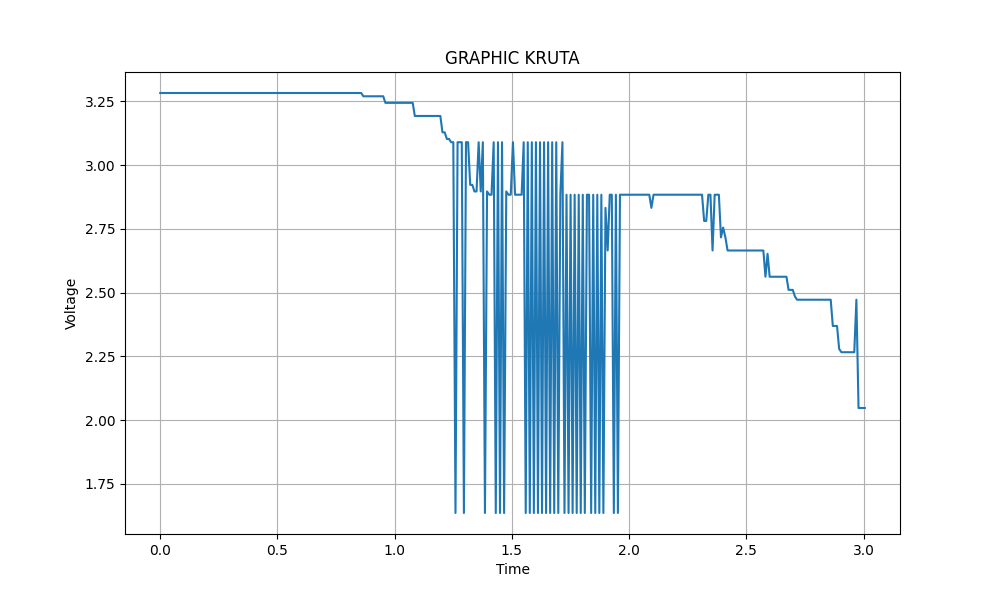
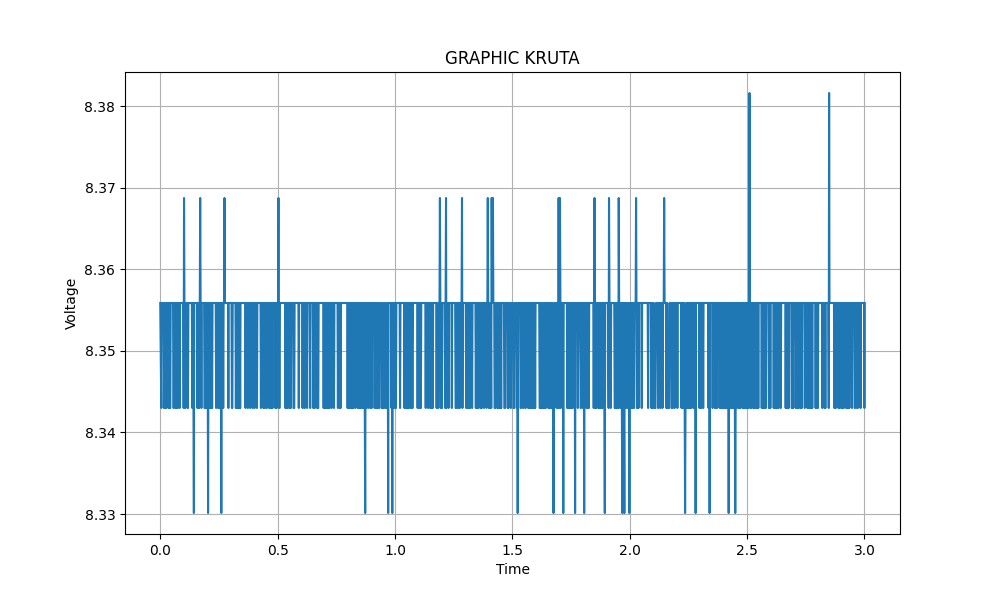
mcp

diff --git a/get-adc/mcp3021_driver.py b/get-adc/mcp3021_driver.py
@@ -1,0 +1,49 @@
+import RPi.GPIO as GEGE
+import smbus
+
+
+class MCP3021:
+    def __init__(self, dynamic_range, verbose = False):
+        self.bus           = smbus.SMBus(1)
+        self.dynamic_range = dynamic_range
+        self.address       = 0x4D
+        self.verbose       = verbose
+        return
+
+    def __dtor__(self):
+        self.bus.close()
+        return
+
+    def get_number(self):
+        data            = self.bus.read_word_data(self.address, 0)
+        lower_data_byte = data >> 8
+        upper_data_byte = data & 0xFF
+        number          = (upper_data_byte << 6) | (lower_data_byte >> 2)
+
+        if self.verbose:
+            print(f"Принятые данные: {data}, Старший байт: {upper_data_byte:x}, Младший байт: {lower_data_byte}, Число: {number}")
+
+        return number
+
+    def get_voltage(self):
+        number  = self.get_number()
+        voltage = number / 256 * self.dynamic_range
+        return voltage 
+
+
+if __name__ == "__main__":
+    try:
+        mcp = MCP3021(3.296)
+        
+        while True:
+            voltage = mcp.get_voltage()
+            print(f"Current voltage: {voltage}")
+            time.sleep(1)
+
+
+    except KeyboardInterrupt:
+        print("ENDNNDNDN")
+
+
+    finally:
+        mcp.__dtor__()

diff --git a/get-adc/mcp.py b/get-adc/mcp.py
@@ -1,0 +1,40 @@
+import mcp3021_driver as mcp_driver
+import adc_plot
+import time
+
+if __name__ == "__main__":
+    try:
+        max_voltage = 3.296
+        wait_time   = 0.001
+
+        mcp = mcp_driver.MCP3021(max_voltage)
+
+        voltage_values = []
+        time_values    = []
+        duration       = 3.0
+
+        time_start   = time.monotonic()
+        time_current = 0.0 
+
+        while time_current < duration:
+            time_current = time.monotonic() - time_start
+            voltage      = mcp.get_voltage()
+
+            voltage_values.append(voltage)
+            time_values.append(time_current)
+            
+            time.sleep(wait_time)
+
+        adc_plot.plot_voltage_vs_time(time_values, \
+            voltage_values, max_voltage)
+        
+        print(voltage_values)
+        print(time_values)
+
+        adc_plot.plot_sampling_period_hist(time_values)
+    
+    except KeyboardInterrupt:
+        print("\nEnddnNDndnaajn")
+
+    finally:
+        mcp.__dtor__()
